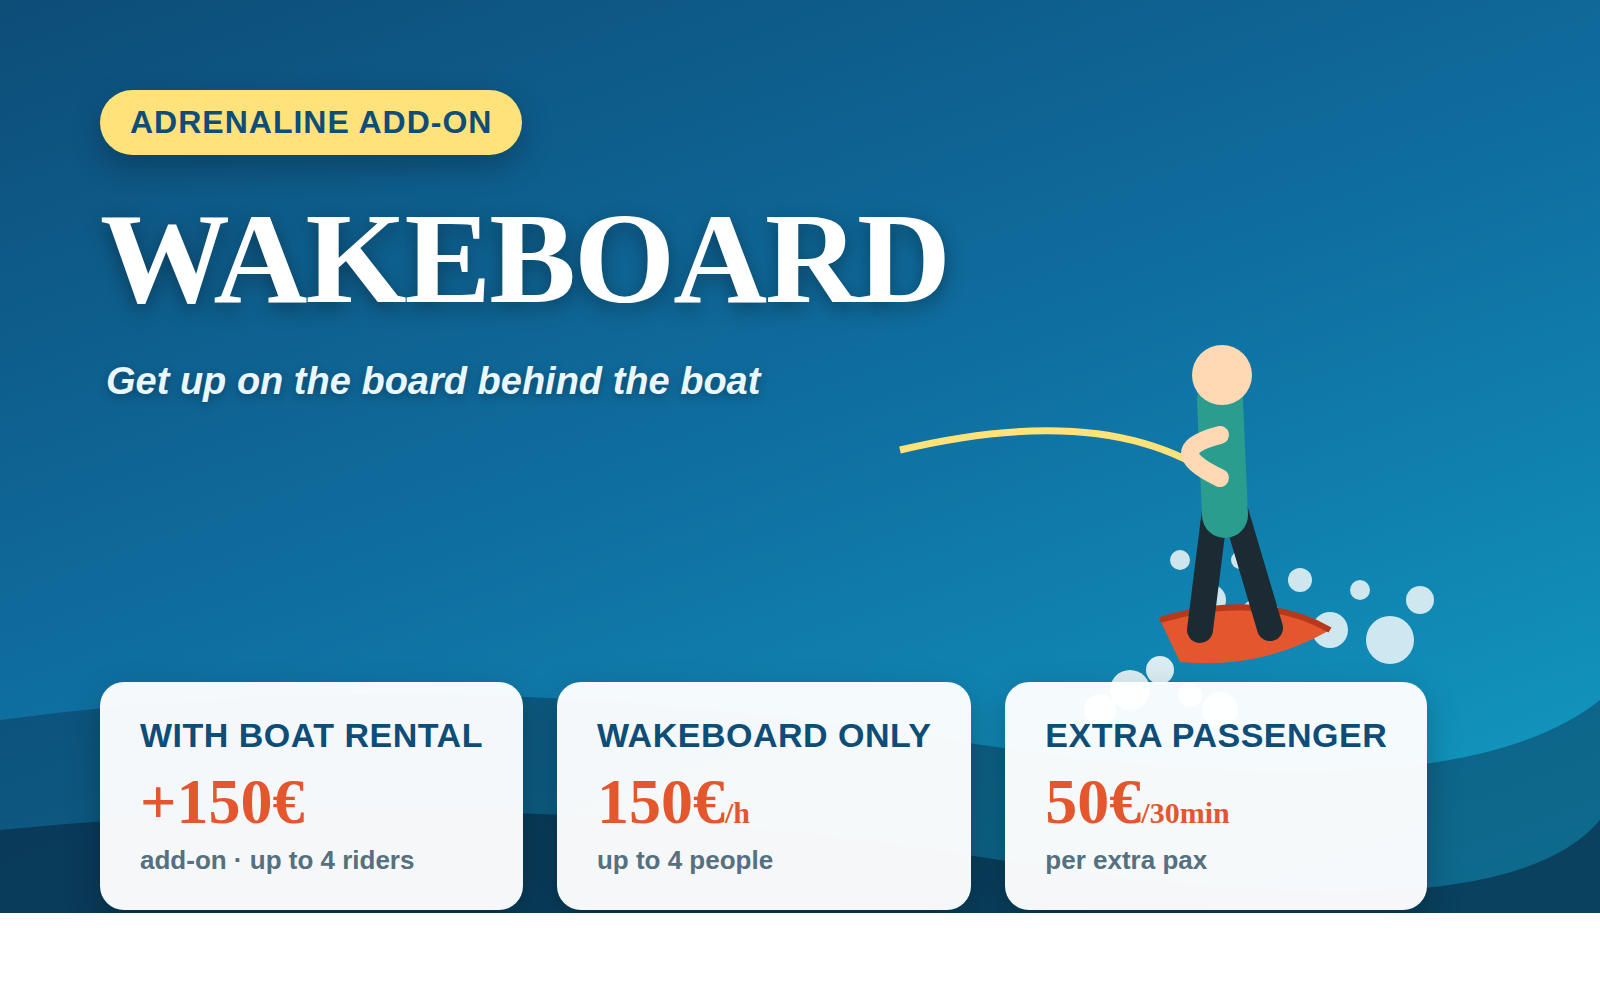
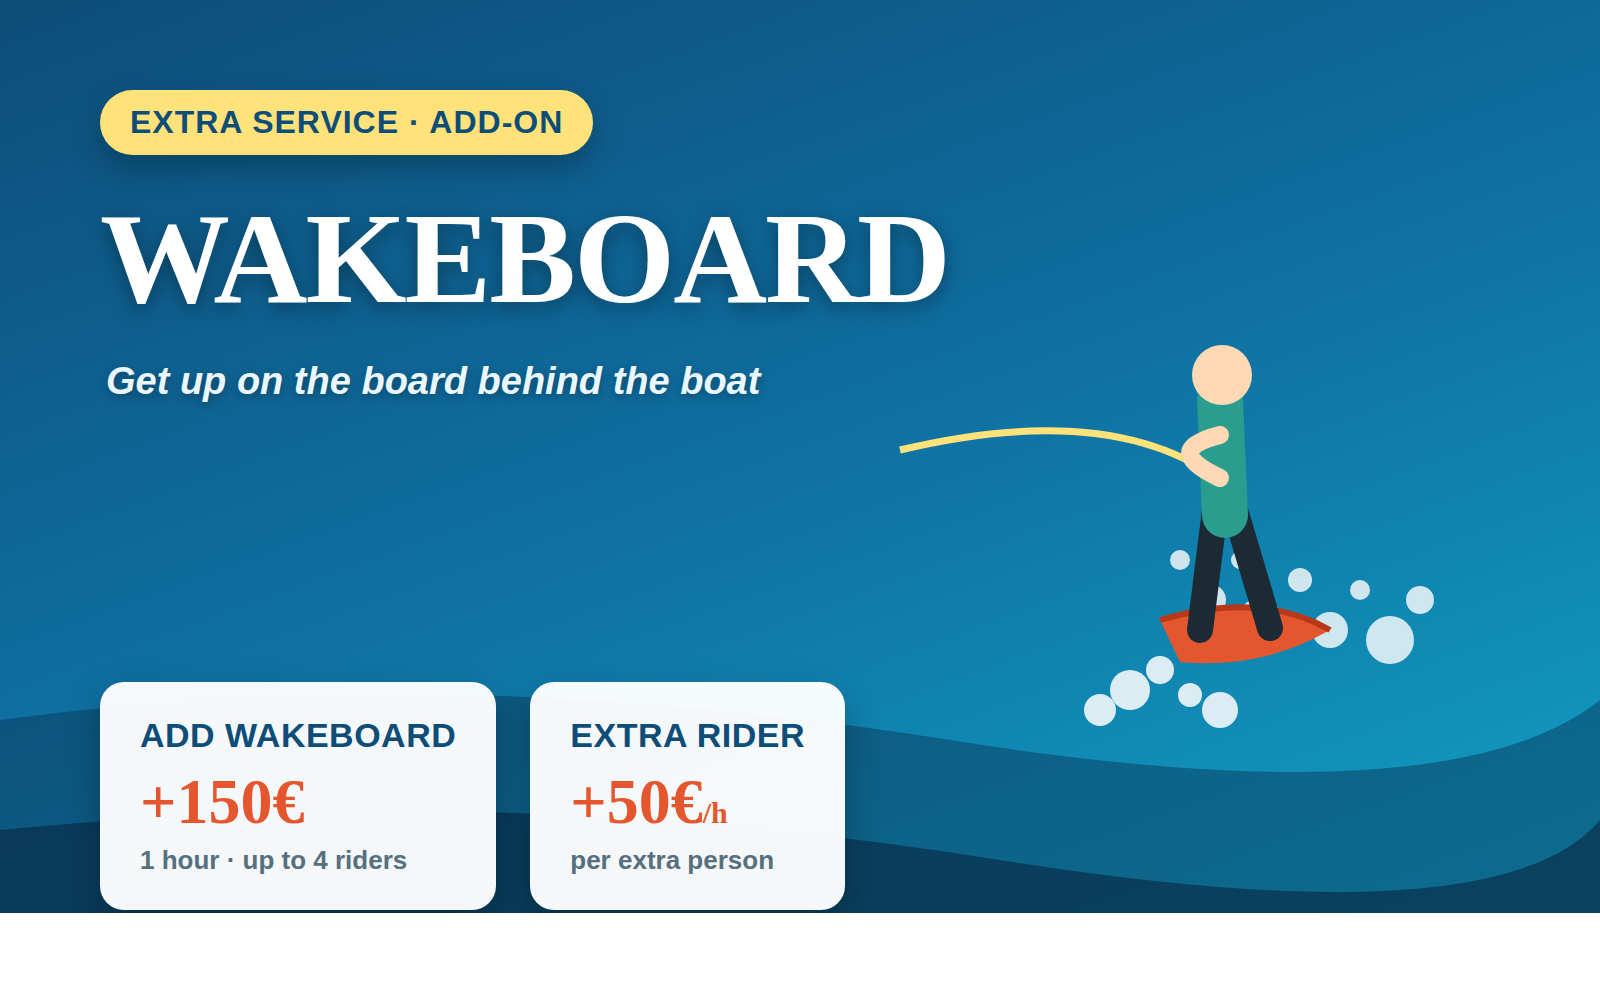
Update tour details with confirmed pricing, times and languages
- Wakeboard reframed as an extra service: +150 EUR for 1 hour (up to 4),
  +50 EUR per extra rider per hour; removed standalone/30-min interpretations.
- Departure/finish times set to flexible/on-request (private boat + skipper).
- Languages: Spanish, English, French, German.
- Dropped contact/operator/payment TODOs (booking handled by the website);
  only the departure marina remains to confirm.
- Re-rendered the wakeboard promo graphic to match.

Claude-Session: https://claude.ai/code/session_017majYvPWpBsn91dYpNhEVL

Changed region(s): [[0.0938, 0.682, 0.9062, 0.93], [0.0625, 0.093, 0.375, 0.155], [0.0938, 0.837, 0.25, 0.868]]

diff --git a/tours/speed-boat-rental/tour-details.md b/tours/speed-boat-rental/tour-details.md
@@ -19,22 +19,19 @@
 ## 3. Price
 | Option | Price | Details |
 |---|---|---|
-| **Speed boat rental (Caribe)** | **295 €** | 2 h 30 min · includes captain · up to 6 people |
-| **Add-on: Wakeboard** | **+150 €** | added to a boat rental · up to 4 riders |
-| **Wakeboard only** | **150 € / hour** | up to 4 people |
-| **Extra passenger** | **50 € / 30 min** | per additional passenger *(confirm meaning)* |
+| **Speed boat hire (Caribe)** | **295 €** | 2 h 30 · private · skipper included · up to 6 people |
+| **Wakeboard — extra service** | **+150 €** | 1 hour · up to 4 riders |
+| **Extra rider on the wakeboard** | **+50 € / person / hour** | for each additional person |
 
 - **Price shown on listing (EN):** From 295 € (private boat, up to 6 people)
 - **Precio en la ficha (ES):** Desde 295 € (barco privado, hasta 6 personas)
 
-> Note: "Extra pax 50 €/30 min" on the flyer is ambiguous — confirm whether it's a
-> per-extra-person surcharge or an add-on time block. **[TO CONFIRM]**
-
 ## 4. Duration & Times
-- **Duration (EN):** 2 hours 30 minutes (boat rental). Wakeboard-only sessions are booked by the hour.
-- **Duración (ES):** 2 horas 30 minutos (alquiler de barco). Las sesiones solo de wakeboard se reservan por horas.
-- **Departure times:** [TO CONFIRM]
-- **Departure point / marina:** [TO CONFIRM — likely Marina Rubicón, Playa Blanca]
+- **Duration (EN):** 2 hours 30 minutes on the water.
+- **Duración (ES):** 2 horas 30 minutos en el mar.
+- **Departure & finish times (EN):** Flexible — arranged when you book, subject to availability. The boat is private and hired with its own skipper.
+- **Horarios de salida y regreso (ES):** Flexibles — se acuerdan al reservar, según disponibilidad. El barco es privado y se alquila con su propio patrón.
+- **Departure point / marina:** [TO CONFIRM]
 
 ## 5. Capacity
 - Speed boat: **up to 6 people** (max)
@@ -44,13 +41,13 @@
 - **EN:** Take the wheel of your own day at sea. Our Caribe speedboat comes with an
   experienced captain and is yours for 2.5 hours — cruise Lanzarote's south coast,
   drop anchor for a swim in crystal-clear water, and soak up the views. Feeling
-  adventurous? Add a wakeboard and let the captain pull you across the bay, or book
-  a dedicated wakeboard session. Perfect for families, friends and groups of up to six.
+  adventurous? Add wakeboarding as an extra and let the skipper pull you across the
+  bay. Perfect for families, friends and groups of up to six.
 - **ES:** Toma el timón de tu propio día en el mar. Nuestra lancha Caribe viene con un
   patrón experimentado y es tuya durante 2,5 horas — recorre la costa sur de Lanzarote,
   echa el ancla para bañarte en aguas cristalinas y disfruta de las vistas. ¿Te sientes
-  aventurero? Añade el wakeboard y deja que el patrón te lleve por la bahía, o reserva una
-  sesión exclusiva de wakeboard. Perfecto para familias, amigos y grupos de hasta seis.
+  aventurero? Añade el wakeboard como extra y deja que el patrón te lleve por la bahía.
+  Perfecto para familias, amigos y grupos de hasta seis.
 
 ## 7. What's Included
 **EN**
@@ -67,21 +64,19 @@
 - Parada para el baño en una bahía protegida
 - Hasta 6 pasajeros
 
-### Optional extras
-- Wakeboard add-on: **+150 €** / Wakeboard opcional: **+150 €**
-- Wakeboard-only session: **150 € / hour** (max 4) / Sesión solo wakeboard: **150 € / hora** (máx. 4)
-- Extra passenger: **50 € / 30 min** *(confirm)* / Pasajero extra: **50 € / 30 min** *(confirmar)*
+### Optional extras — Wakeboard (extra service)
+- **EN:** Add wakeboarding for **+150 €** — 1 hour, up to 4 people. Each extra rider is **+50 € per person, per hour**.
+- **ES:** Añade wakeboard por **+150 €** — 1 hora, hasta 4 personas. Cada rider adicional cuesta **+50 € por persona y hora**.
 
 ## 8. What to bring
 - **EN:** Swimwear, towel, sun cream, hat and sunglasses. Bring a light jacket for the wind at speed.
 - **ES:** Bañador, toalla, crema solar, gorra y gafas de sol. Trae una chaqueta ligera para el viento a velocidad.
 
 ## 9. Booking Details
-- **Balance / payment:** [TO CONFIRM — e.g. balance paid at boarding]
-- **Languages spoken:** [TO CONFIRM — e.g. English & Spanish]
-- **Contact / WhatsApp to book:** [TO CONFIRM]
-- **Operator name:** [TO CONFIRM]
-- **Cancellation policy:** [TO CONFIRM]
+- **Times:** Departure and finish times are flexible and arranged on booking, subject to availability (private boat with skipper).
+- **Languages spoken:** Spanish, English, French, German / Español, Inglés, Francés, Alemán
+- **Booking:** Handled through the website (no separate contact needed).
+- **Departure point / marina:** [TO CONFIRM]
 
 ## 10. SEO / meta (for the listing)
 - **Meta title (EN):** Private Speed Boat Rental Lanzarote with Captain | Wakeboard Optional

diff --git a/tours/speed-boat-rental/README.md b/tours/speed-boat-rental/README.md
@@ -27,13 +27,14 @@ speed-boat-rental/
 9. **SEO title/description/slug** → field 10
 
 ## Before publishing — fill these in
-- [ ] Departure times and marina
-- [ ] Contact / WhatsApp number to book
-- [ ] Operator/business name
-- [ ] Languages spoken by the crew
-- [ ] Payment & cancellation policy
-- [ ] Confirm what "Extra pax 50 € / 30 min" means
+- [ ] Departure point / marina (the only detail still missing)
 - [ ] Replace promo graphics with real photos of the boat & wakeboarding
+
+## Already confirmed
+- Times: flexible / on request, subject to availability (private boat + skipper)
+- Languages: Spanish, English, French, German
+- Booking: handled by the website
+- Price: 295 € boat hire · +150 € wakeboard (1 h, up to 4) · +50 € per extra rider/hour
 
 ## Source
 Built from the uploaded *Speed Boat Rental / Caribe* flyer. Prices, duration,